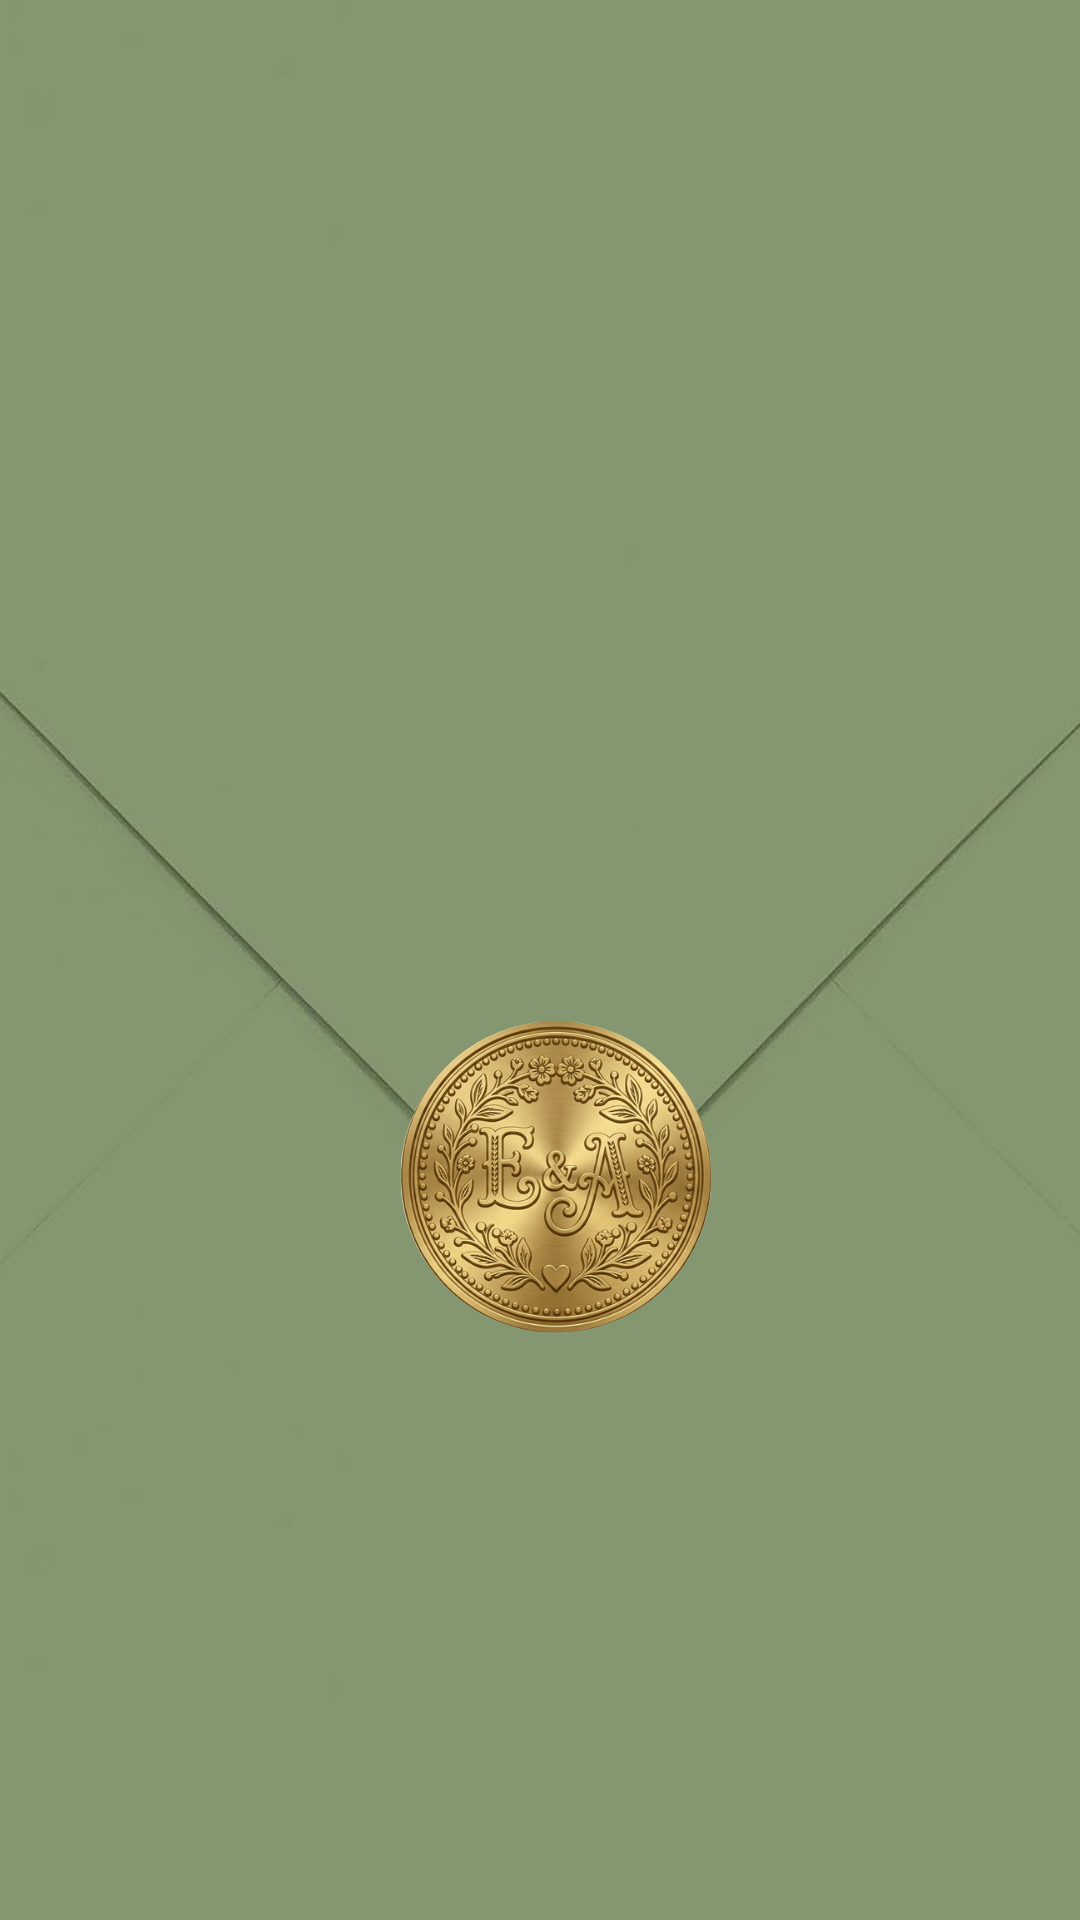
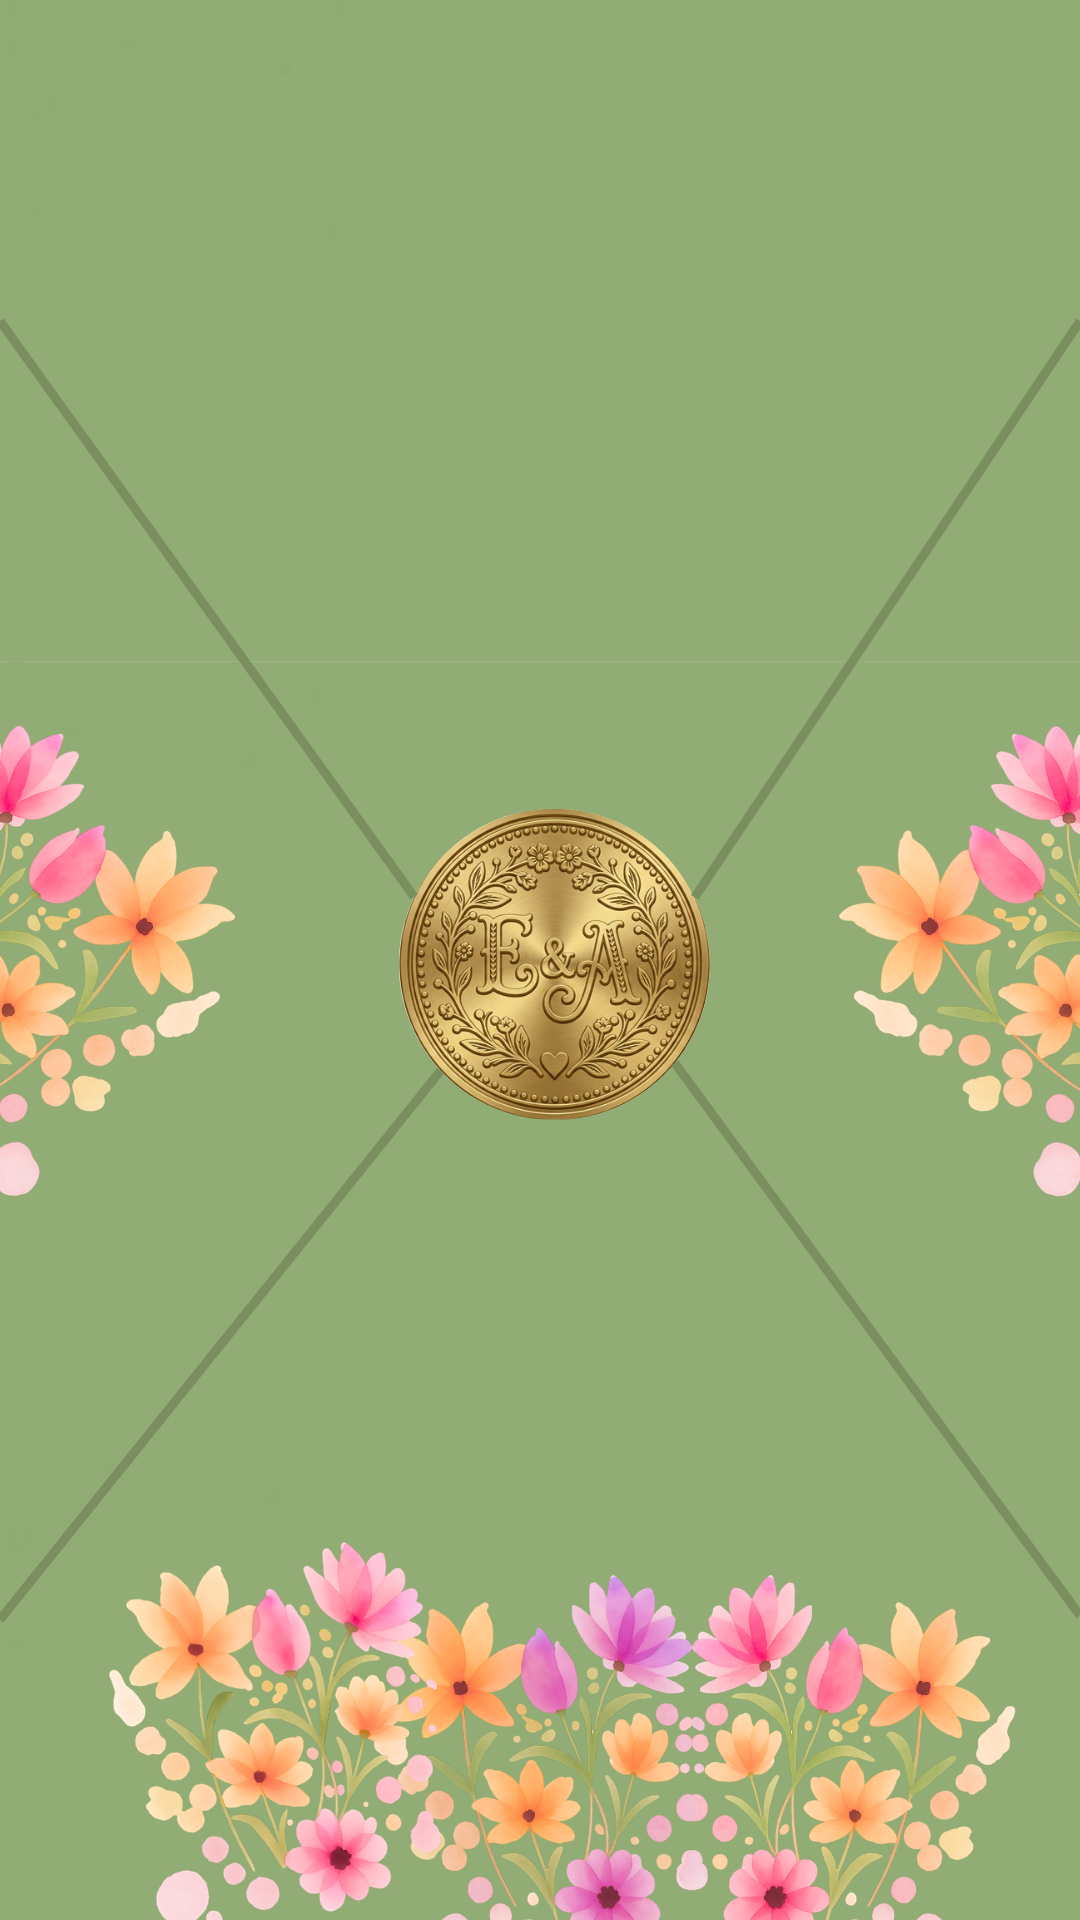
feat<Home>:Changement de style

Changed region(s): [[0.0917, 0.7812, 0.9472, 1.0], [0.0, 0.3438, 0.7333, 0.7188], [0.7333, 0.375, 1.0, 0.625]]

diff --git a/src/App.jsx b/src/App.jsx
@@ -4,6 +4,7 @@ import Letter from "./components/Letter";
 import Message from "./components/Message";
 import ScratchCircle from "./components/ScratchCircle";
 import CountdownUntil from "./components/Countdownuntil";
+import Carousel from "./components/Carousel";
 
 const REVEAL_TOTAL_MS = 10000; // durée avant de passer à la page principale
 
@@ -29,6 +30,14 @@ function App() {
     }, REVEAL_TOTAL_MS);
   };
 
+  const carouselItems = [
+    { src: "https://www.le-colombier-bayeux.fr/wp-content/uploads/2025/04/009.jpg", alt: "Décor 2" },
+    { src: "https://www.le-colombier-bayeux.fr/wp-content/uploads/2025/04/001.jpg", alt: "Décor 1" },
+    { src: "https://www.le-colombier-bayeux.fr/wp-content/uploads/2025/04/DJI_0024.jpg", alt: "Décor 3" },
+    { src: "https://cdn0.mariages.net/vendor/1999/3_2/640/jpeg/img-5746_3_371999-176045267880362.webp", alt: "Décor 3" },
+    { src: "https://cdn0.mariages.net/vendor/1999/3_2/960/jpg/lamapix-63511150_3_371999-174323254314969.webp", alt: "Décor 4" },
+  ];
+
   return (
     <div className="app">
       <Letter isOpen={envelopeOpen} setIsOpen={handleOpenEnvelope} />
@@ -37,15 +46,36 @@ function App() {
 
       <main className={`page ${pageVisible ? "visible" : ""}`}>
         <section>
-          <img src="images/flowerHome.png" alt="Arche en fleur" />
+          <img src="images/Home_webbing.png" alt="Arche en fleur" />
         </section>
         <section className="date-reveal-section bg-[#f2d5a9] text-black instrument-serif-regular">
-          <h2 className="instrument-serif-regular c-green2">Grattez pour découvrir la date !</h2>
+          <h2 className="instrument-serif-regular c-green2">
+            Grattez pour découvrir la date !
+          </h2>
           <div className="scratch-row">
             <ScratchCircle label="Jour" value="14" />
             <ScratchCircle label="Mois" value="SEPT" />
             <ScratchCircle label="Année" value="2028" />
           </div>
+        </section>
+        <section className="text-center">
+          <div className="flex items-center justify-center pb-2">
+            <img
+              src="https://cdn-icons-png.flaticon.com/512/3085/3085472.png"
+              alt="icon"
+              className="w-6 h-6 inline-block mr-2"
+            />
+            <h1 className="instrument-serif-regular c-green2">
+              Lieu de réception
+            </h1>
+          </div>
+          <p className="instrument-serif-regular c-green2">
+            Le Colombier du Manoir
+          </p>
+          <p className="instrument-serif-regular c-green2 mb-4!">
+            Le Manoir 14710 Mandeville-en-Bessin (Calvados)
+          </p>
+          <Carousel items={carouselItems} />
         </section>
         <section>
           <CountdownUntil />

diff --git a/src/components/Carousel.jsx b/src/components/Carousel.jsx
@@ -1,0 +1,71 @@
+import { useState } from "react";
+
+function Carousel({ items = [] }) {
+  const [currentIndex, setCurrentIndex] = useState(0);
+
+  if (items.length === 0) {
+    return null;
+  }
+
+  const prevItem = () => {
+    setCurrentIndex((index) =>
+      index === 0 ? items.length - 1 : index - 1
+    );
+  };
+
+  const nextItem = () => {
+    setCurrentIndex((index) =>
+      index === items.length - 1 ? 0 : index + 1
+    );
+  };
+
+  return (
+    <div className="carousel mx-auto max-w-xl">
+      <div className="carousel-image mb-4 overflow-hidden rounded-xl border border-gray-300 h-[350px]">
+        <img
+          src={items[currentIndex].src}
+          alt={items[currentIndex].alt}
+          className="w-full h-full object-cover"
+        />
+      </div>
+
+      <div className="flex items-center justify-between mb-3 h-4">
+        <button
+          type="button"
+          onClick={prevItem}
+          className="rounded px-4 py-2 text-black relative top-[-200px] h-[350px]"
+        >
+          <img src="https://cdn-icons-png.flaticon.com/512/271/271228.png" alt="Previous" className="w-4 h-4 inline-block rotate-180" />
+        </button>
+
+        <span className="text-sm text-gray-700">
+          {currentIndex + 1} / {items.length}
+        </span>
+
+        <button
+          type="button"
+          onClick={nextItem}
+          className="rounded px-4 py-2 text-black relative top-[-200px] h-[350px]"
+        >
+          <img src="https://cdn-icons-png.flaticon.com/512/271/271228.png" alt="Next" className="w-4 h-4 inline-block" />
+        </button>
+      </div>
+
+      <div className="flex justify-center gap-2">
+        {items.map((item, idx) => (
+          <button
+            key={idx}
+            type="button"
+            onClick={() => setCurrentIndex(idx)}
+            className={`h-3 w-3 rounded-full ${
+              idx === currentIndex ? "bg-black" : "bg-gray-300"
+            }`}
+            aria-label={`Aller à l'image ${idx + 1}`}
+          />
+        ))}
+      </div>
+    </div>
+  );
+}
+
+export default Carousel;

diff --git a/src/components/Letter.jsx b/src/components/Letter.jsx
@@ -9,7 +9,7 @@ function Letter({ isOpen, setIsOpen }) {
           <p className="mea-culpa-regular text-4xl mt-4!">Elisa & Antonin</p>
         </div>
         <img
-          src="images/letter_white.png"
+          src="images/letter_green_mobile.png"
           alt="Fleur"
           className="paper-image"
         />

diff --git a/src/components/Countdownuntil.jsx b/src/components/Countdownuntil.jsx
@@ -1,6 +1,6 @@
 import { useState, useEffect } from 'react';
 
-const WEDDING_DATE = new Date('2026-09-14T16:00:00');
+const WEDDING_DATE = new Date('2028-10-07T12:00:00');
 
 function getTimeLeft() {
   const now = new Date();
